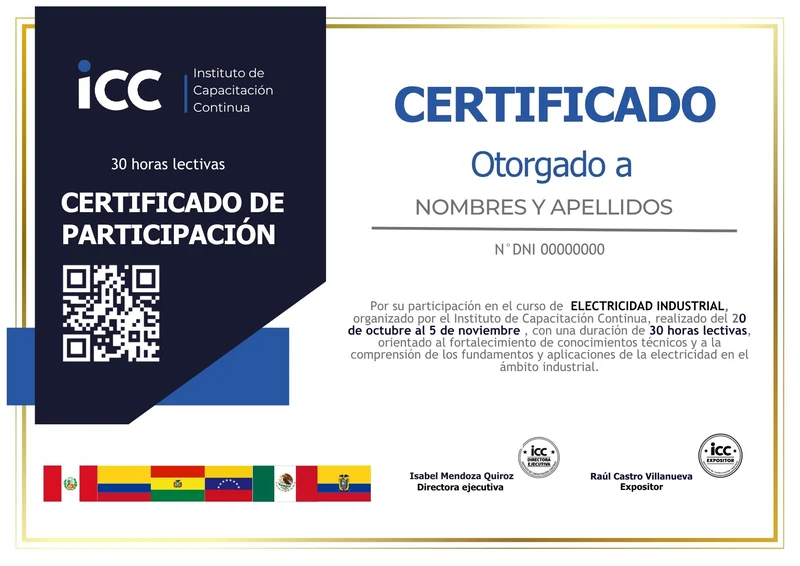
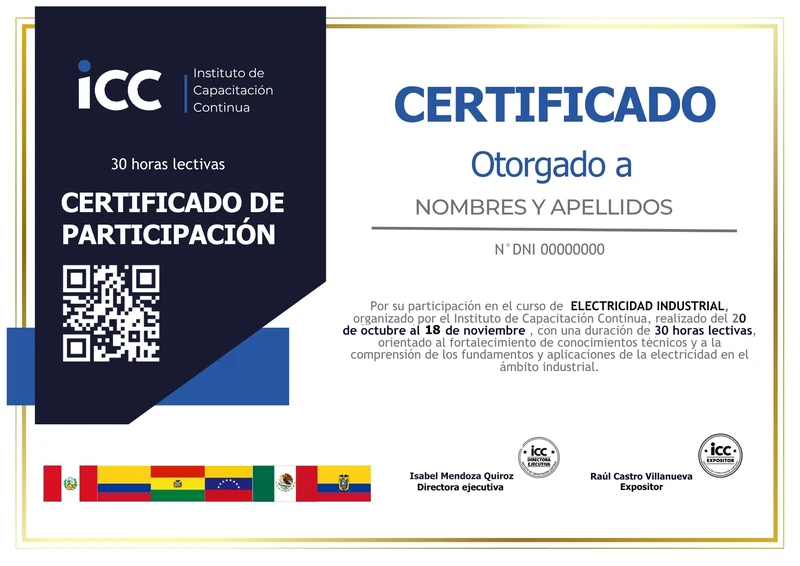
feat: 4 capturas de chat de alumnos en testimonios; certificado modelo con fechas 20 oct al 18 nov

Changed region(s): [[0.4062, 0.5707, 0.9375, 0.6007]]

diff --git a/app/Views/checkout/v2.php b/app/Views/checkout/v2.php
@@ -47,7 +47,7 @@ $iconosModulo = ['fas fa-bolt', 'fas fa-drafting-compass', 'fas fa-tachometer-al
     <link rel="preconnect" href="https://fonts.gstatic.com" crossorigin>
     <link href="https://fonts.googleapis.com/css2?family=Inter:wght@400;500;600;700&family=Plus+Jakarta+Sans:wght@700;800&display=swap" rel="stylesheet">
     <link rel="stylesheet" href="<?= BASE_URL ?>assets/vendors/fontawesome/css/all.min.css">
-    <link rel="stylesheet" href="<?= BASE_URL ?>assets/css/checkout-v2.css?v=15">
+    <link rel="stylesheet" href="<?= BASE_URL ?>assets/css/checkout-v2.css?v=16">
     <!-- El navegador descubre el <img> de Bruno recien al final del HTML (esta muy abajo en la pagina);
          con esto empieza a bajarlo desde ya, para que ya este listo y animando cuando se vea -->
     <link rel="preload" as="image" type="image/webp" href="<?= BASE_URL ?>assets/images/mascota/bruno-idle.webp">
@@ -282,7 +282,7 @@ $iconosModulo = ['fas fa-bolt', 'fas fa-drafting-compass', 'fas fa-tachometer-al
 </section>
 <?php endif; ?>
 
-<?php if (!empty($d['testimonios'])): ?>
+<?php if (!empty($d['testimonios']) || !empty($d['chats'])): ?>
 <?php
 $testAnchas = array_filter($d['testimonios'], function ($t) { return $t['ancha']; });
 $testVerticales = array_filter($d['testimonios'], function ($t) { return !$t['ancha']; });
@@ -294,6 +294,14 @@ $testVerticales = array_filter($d['testimonios'], function ($t) { return !$t['an
         <?php foreach ($testAnchas as $t): ?>
         <img src="<?= $e($t['url']) ?>" alt="Opiniones de alumnos de ICC" loading="lazy" class="reveal mx-auto mt-8 w-full max-w-4xl rounded-2xl shadow-xl ring-4 ring-white">
         <?php endforeach; ?>
+        <?php if (!empty($d['chats'])): ?>
+        <!-- Capturas de chat de alumnos (recortadas al mensaje) -->
+        <div class="mx-auto mt-8 grid max-w-3xl gap-4 sm:grid-cols-2">
+            <?php foreach ($d['chats'] as $c): ?>
+            <img src="<?= $e($c['url']) ?>" alt="<?= $e($c['alt']) ?>" width="678" height="380" loading="lazy" class="reveal w-full rounded-2xl shadow-md ring-1 ring-black/5">
+            <?php endforeach; ?>
+        </div>
+        <?php endif; ?>
         <?php if ($testVerticales): ?>
         <div class="mt-8 flex snap-x gap-4 overflow-x-auto pb-4 md:grid md:grid-cols-3 md:overflow-visible lg:grid-cols-4">
             <?php foreach ($testVerticales as $t): ?>

diff --git a/app/Helpers/OfertasCheckout.php b/app/Helpers/OfertasCheckout.php
@@ -64,6 +64,14 @@ class OfertasCheckout {
             'titulo' => ['Especializacion en Electricidad Industrial', 'más IA'],
             'duracion' => '30 horas académicas',
             'quitar_beneficios' => ['Acceso al aula virtual por tiempo limitado'],
+            // Capturas de chat de alumnos (recortadas al encabezado y al mensaje), en este orden.
+            // El 'alt' repite el mensaje porque el texto va dentro de la imagen.
+            'chats' => [
+                ['archivo' => 'assets/images/testimonios-chat/chat-rk.webp', 'alt' => 'Mensaje de un alumno: "Buen curso, aprendí bastante sobre instalaciones, seguridad y el uso correcto de los equipos. Espero poder participar en otro."'],
+                ['archivo' => 'assets/images/testimonios-chat/chat-jh.webp', 'alt' => 'Mensaje de un alumno: "Me gustó bastante la capacitación de electricidad industrial. Aprendí cosas que no conocía y ahora entiendo mejor cómo funcionan los circuitos."'],
+                ['archivo' => 'assets/images/testimonios-chat/chat-ed.webp', 'alt' => 'Mensaje de un alumno: "Gracias por la capacitación. Estuvo muy interesante y bien organizada. Me gustaría llevar otro curso de mantenimiento eléctrico. ¡Saludos!"'],
+                ['archivo' => 'assets/images/testimonios-chat/chat-el.webp', 'alt' => 'Mensaje de un alumno: "Excelente capacitación, se entendió todo con claridad y hubo buena atención. Muchas gracias por la oportunidad."'],
+            ],
             // 'etiqueta corta' => 'nombre completo del tema' (la etiqueta se ve; el nombre completo
             // queda como tooltip). Las etiquetas quitan lo que el titulo de la seccion ya dice.
             // Los 7 modulos reales del curso (flyer "Aprende Electricidad Industrial desde 0").

diff --git a/app/Controllers/CheckoutController.php b/app/Controllers/CheckoutController.php
@@ -197,6 +197,14 @@ class CheckoutController extends Controller {
             return $out;
         };
 
+        // Capturas de chat de alumnos definidas en la oferta (si falta el archivo, no se muestra)
+        $chats = [];
+        foreach ($cfg['chats'] ?? [] as $c) {
+            if (is_file(__DIR__ . '/../../' . $c['archivo'])) {
+                $chats[] = ['url' => BASE_URL . $c['archivo'], 'alt' => $c['alt']];
+            }
+        }
+
         return [
             'clave' => $clave,
             'curso' => $cfg['curso'],
@@ -225,6 +233,7 @@ class CheckoutController extends Controller {
             'precio' => $actual[$k],
             'precioRegular' => $regular[$k],
             'testimonios' => $imagenes('testimonios'),
+            'chats' => $chats,
             'galeria' => $imagenes('galeria'),
             'paisDetectado' => $pais,
             'metodos' => $metodos,
